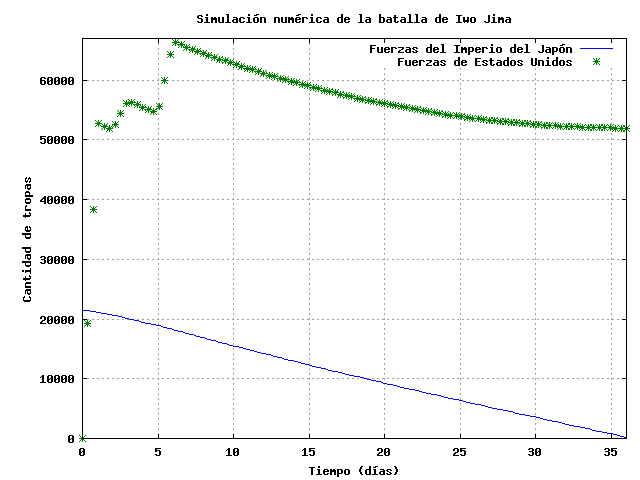
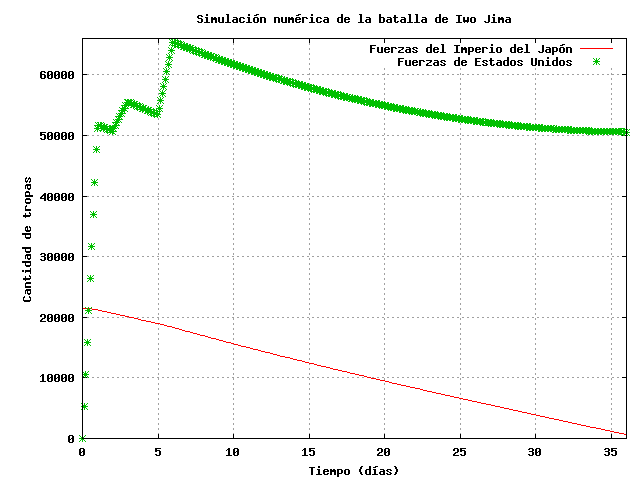
Mas imagenes para el informe y mejoras en el script de ode

diff --git a/tp1_iwojima/src/iwojima.m b/tp1_iwojima/src/iwojima.m
@@ -104,7 +104,7 @@ print -dpng  real_vs_sim.png -mono -dashed -S640
 
 [t x1 x2] = combat_simulator(
         [21500,0],              #Cantidad de fuerzas en combate: ej: [japon usa]
-        30,             
+        50,             
         "zeroreinforcement",    #política de refuerzos de la primera fuerza
         "reinforcement2");       #política de refuerzos de la segunda fuerza
 
@@ -130,7 +130,7 @@ print -dpng reinforce2.png -mono -dashed -S640
 
 [t x1 x2] = combat_simulator(
         [21500,0],              #Cantidad de fuerzas en combate: ej: [japon usa]
-        20,             
+        30,             
         "zeroreinforcement",    #política de refuerzos de la primera fuerza
         "reinforcement3");       #política de refuerzos de la segunda fuerza
 
@@ -141,7 +141,7 @@ reinforce3.usa = x2;
 figure(3);
 
 plot (reinforce3.t, reinforce3.japan,"+;j;", reinforce3.t, reinforce3.usa,"*;u;");
-title (strcat("Pol",sprintf("%c",237),"tica de refuerzo alternativa (I) para el ej",sprintf("%c",233),"rcito de Estados Unidos"));
+title (strcat("Pol",sprintf("%c",237),"tica de refuerzo alternativa (II) para el ej",sprintf("%c",233),"rcito de Estados Unidos"));
 
 xlabel (strcat("Tiempo (d",sprintf("%c",237),"as)"));
 ylabel ("Cantidad de tropas");

diff --git a/tp1_iwojima/src/combat_simulator.m b/tp1_iwojima/src/combat_simulator.m
@@ -28,7 +28,7 @@ function [t2 x1 x2] = combat_simulator(forces, trex, r1,r2)
 
     #ode45 way
     vopt = odeset ("RelTol", 1e-3, "AbsTol", 1e-3, "NormControl", "on",
-        "MaxStep",1e-1);
+        "MaxStep",1e-1, "Events", @zero_crossing, "InitialStep", 1e-3);
     [t2, res] = ode45(@lsodee, [0,trex], forces, vopt);
     
     x1 = res(:,1);

diff --git a/tp1_iwojima/src/zero_crossing.m b/tp1_iwojima/src/zero_crossing.m
@@ -1,0 +1,6 @@
+#Evento que se dispara si alguna de las dos funciones cruza el 0
+function [veve, vterm, vdir] = zero_crossing (vt, vy, varargin)
+  veve = min(vy(1),vy(2)); ## Which event component should be tread
+  vterm =     1; ## Terminate if an event is found
+  vdir = -1;
+endfunction

diff --git a/tp1_iwojima/src/reinforcement2.m b/tp1_iwojima/src/reinforcement2.m
@@ -1,6 +1,6 @@
 function res = reinforcement2(t)
     res = 0;
     if ( t >= 0 && t <= 4.6 )
-        res = floor(exp(t*2.5));
+        res = floor(exp(t*2.5)) + 2000;
     end
 endfunction
